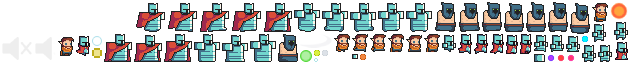
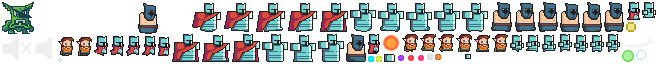
Adds goblin art

diff --git a/src/scenes/Game.js b/src/scenes/Game.js
@@ -19,6 +19,11 @@ export default class extends Phaser.Scene {
 
     SPRITES.forEach(({ key, name }) => createAnim(this, key, `${name}_Walk_`))
     this.anims.create({
+      key: 'goblin',
+      frames: [{ key: 'tiles', frame: 'goblin.png' }],
+      repeat: -1,
+    })
+    this.anims.create({
       key: 'explosion',
       frames: this.anims.generateFrameNames('tiles', {
         prefix: 'explosion',

diff --git a/src/constants.js b/src/constants.js
@@ -38,6 +38,16 @@ export const ENEMIES = {
     xp: 20,
     mass: 10,
   },
+  goblin: {
+    type: 'goblin',
+    bodySize: [18, 18],
+    bodyOffset: [8, 14],
+    speed: 10,
+    hp: 50,
+    damage: 1,
+    xp: 20,
+    mass: 10,
+  },
   largeEliteKnight: {
     type: 'largeEliteKnight',
     bodySize: [18, 18],
